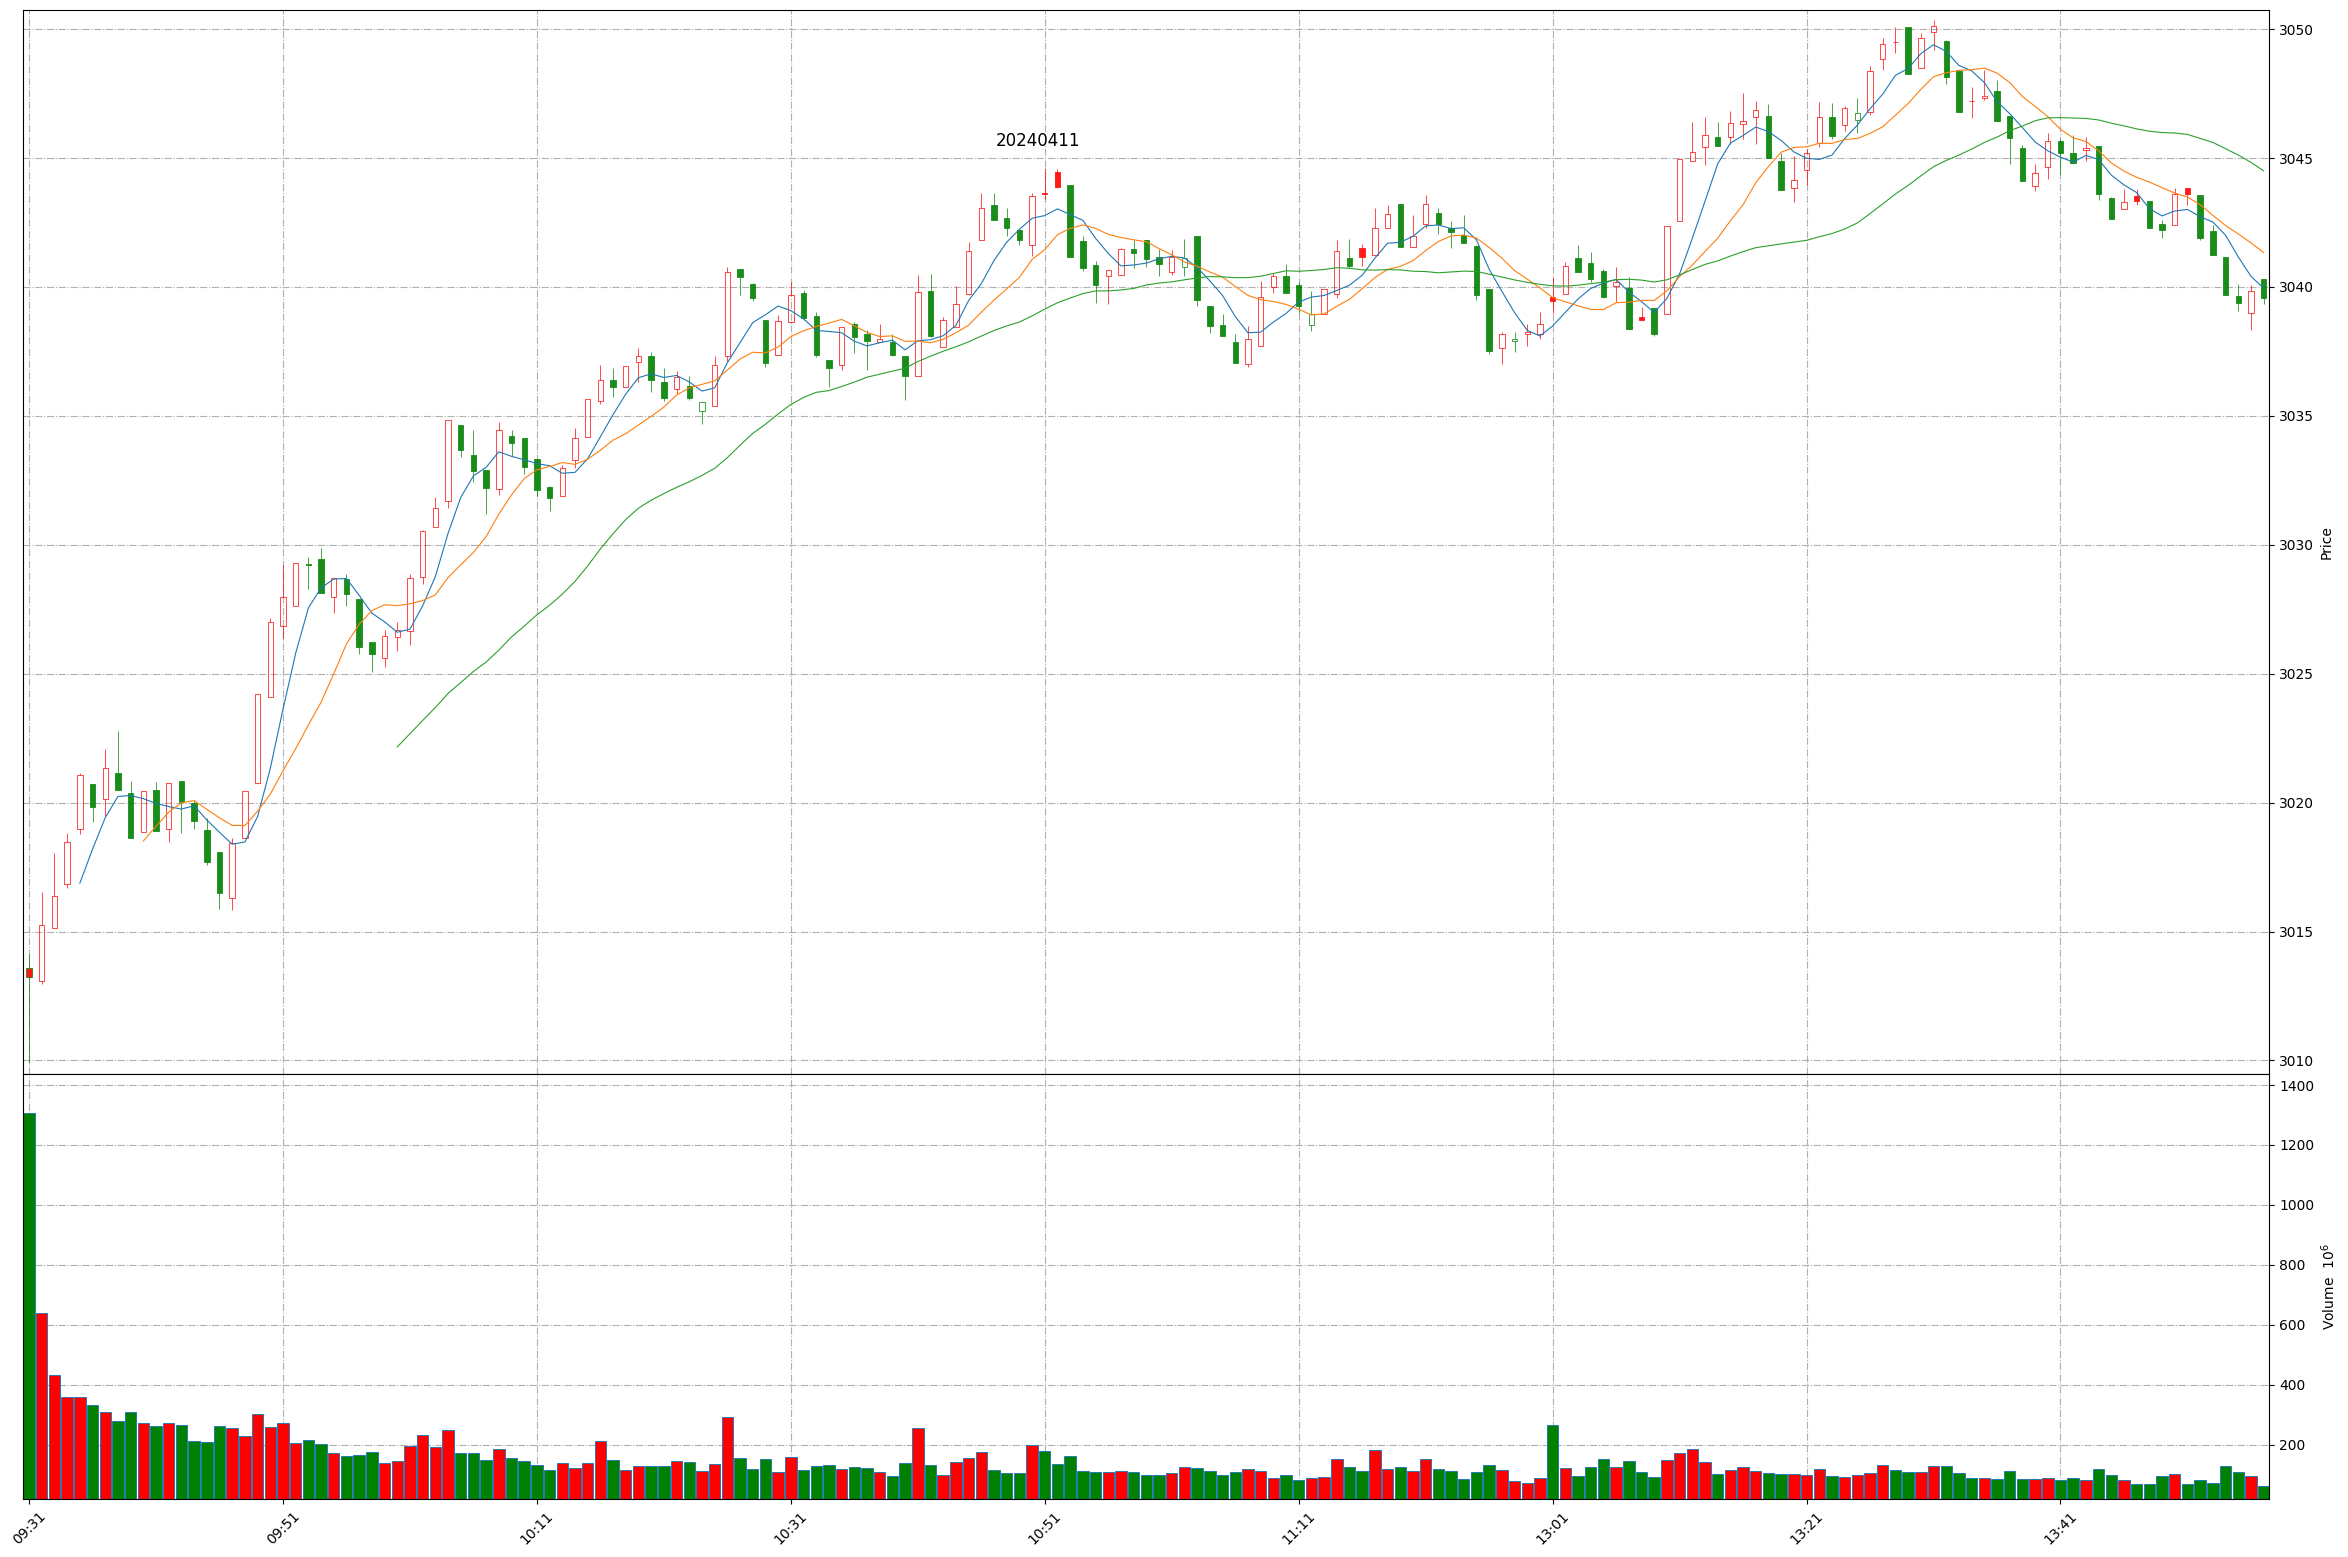
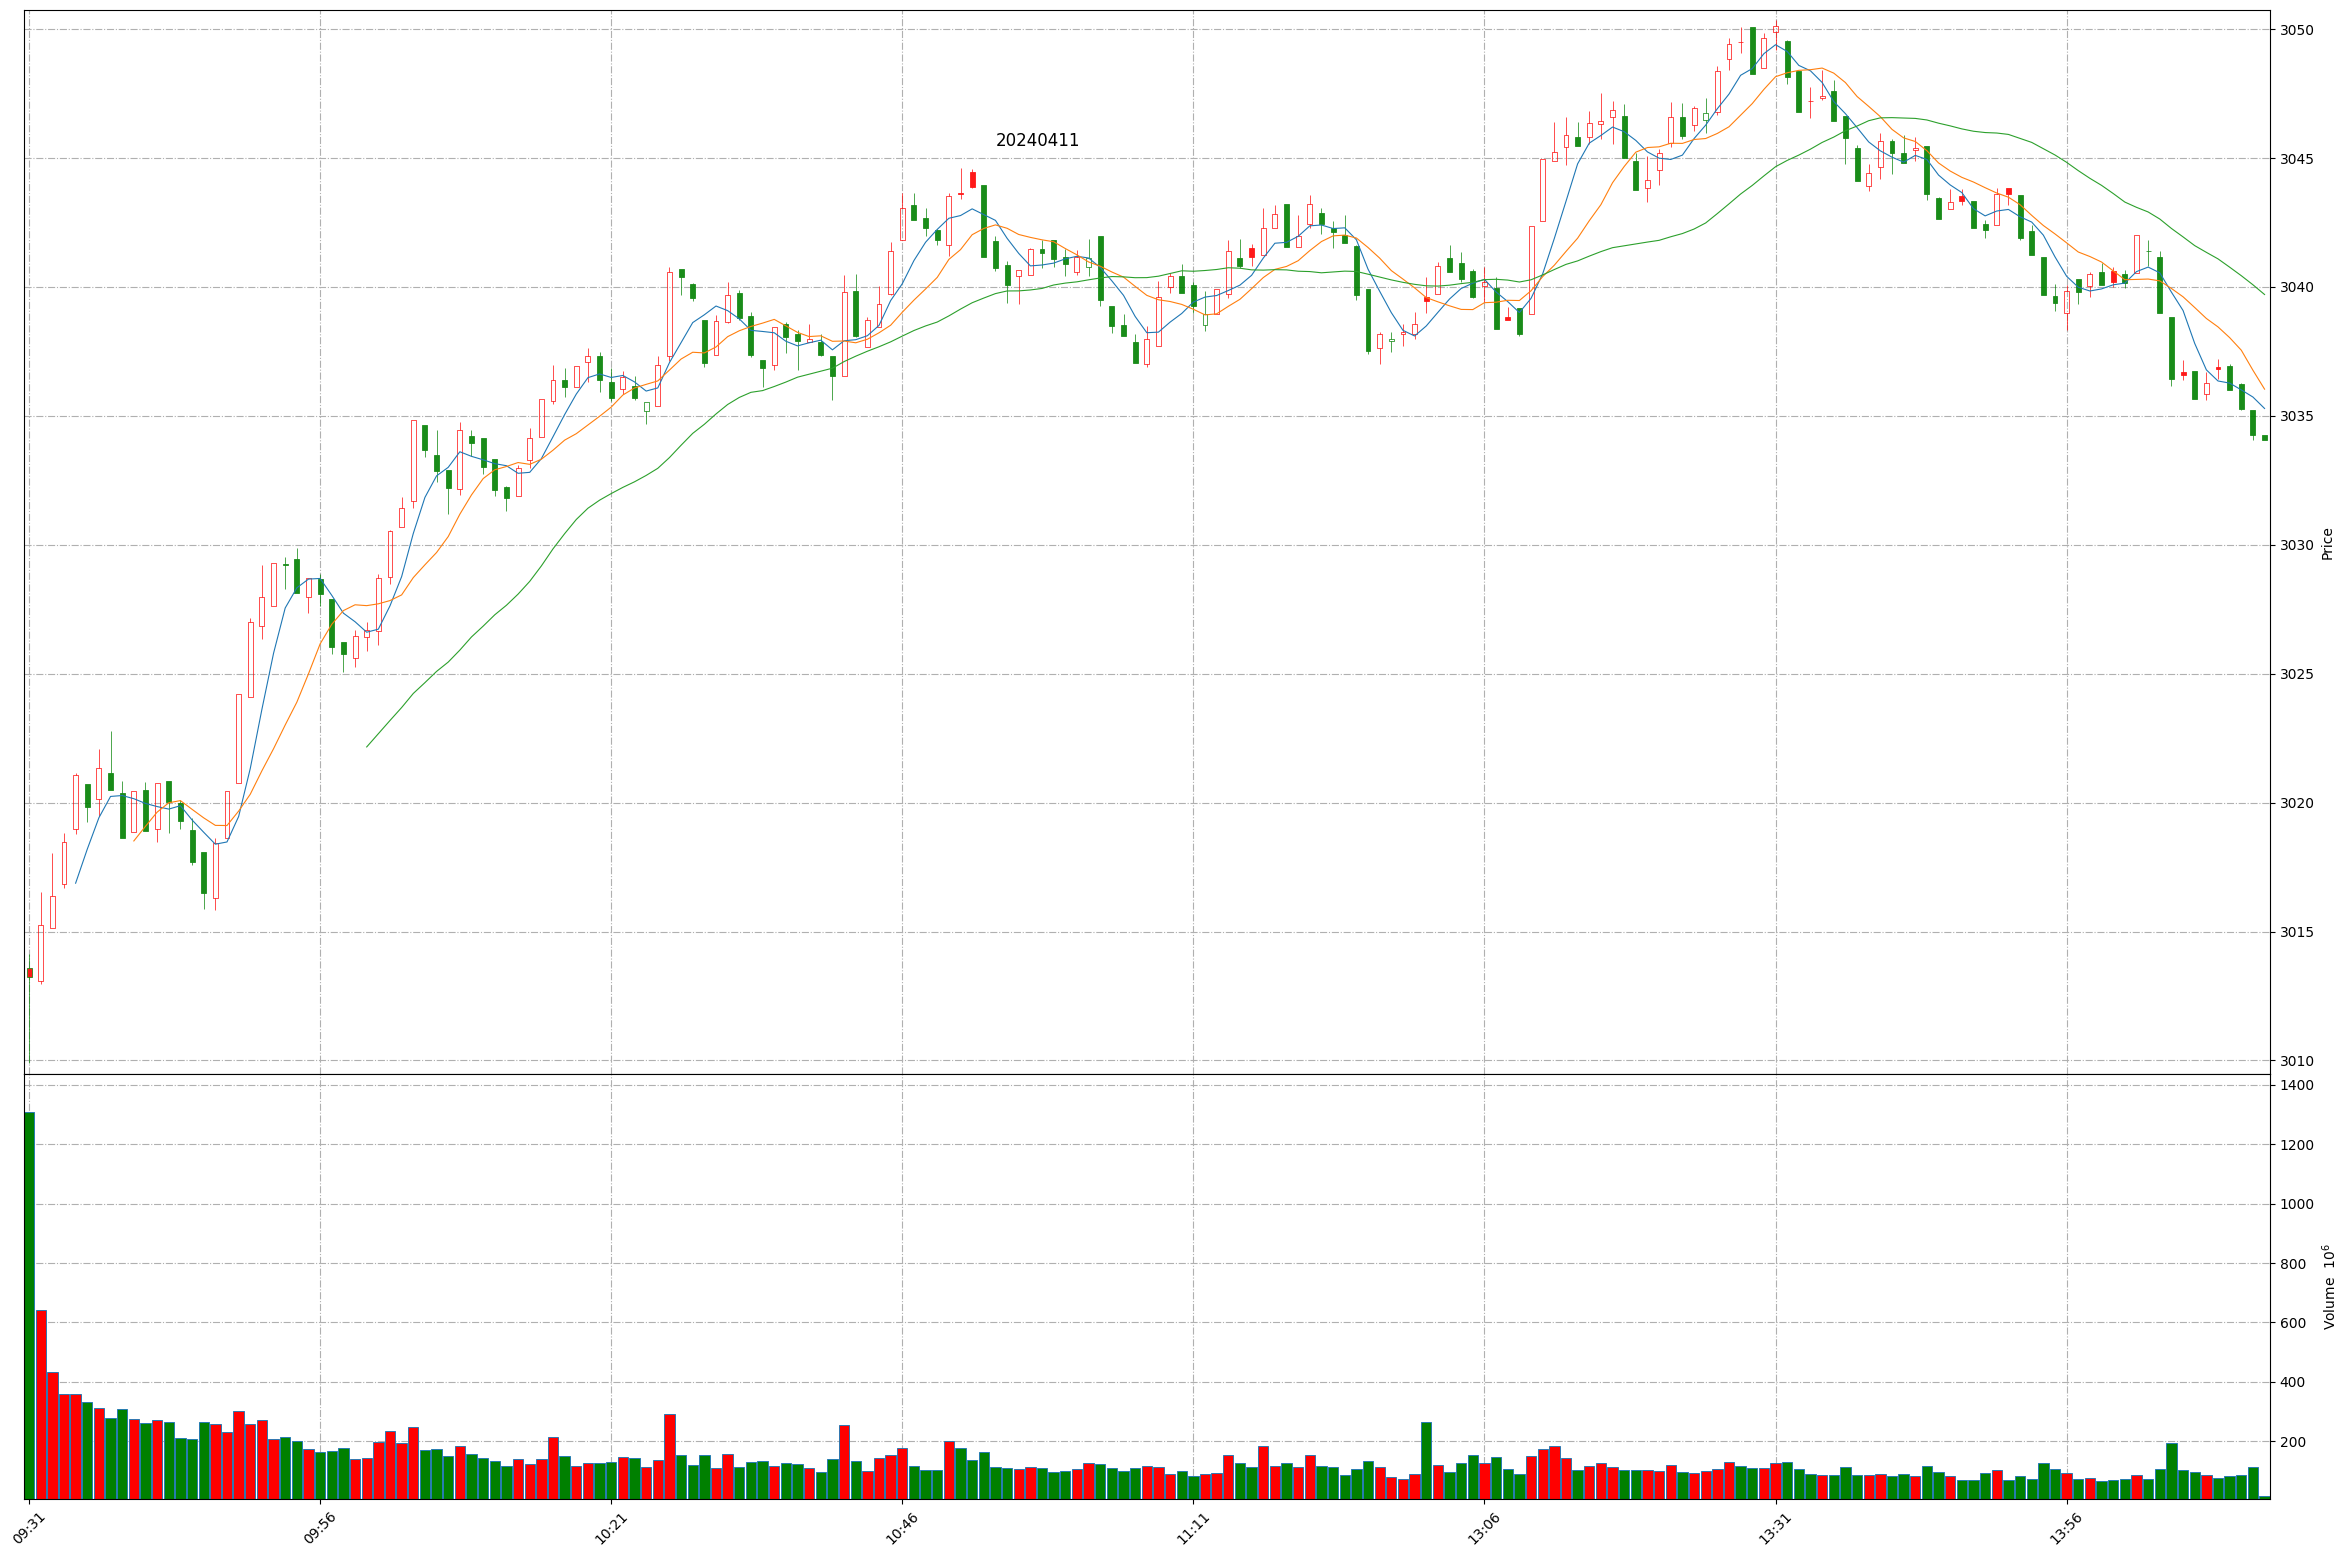
Github action update at 2024-04-11 14:12:39.

diff --git a/README.md b/README.md
@@ -1,11 +1,11 @@
 
 # Daily-A-share-market-quotes 每日 A 股指数（5min 更新）- 20240411
 
-### 上证指数 20240411 13:57
+### 上证指数 20240411 14:12
 ![](./fig/2024/4/20240411-sh000001.png)
 
-### 深证成指 20240411 13:57
+### 深证成指 20240411 14:12
 ![](./fig/2024/4/20240411-sz399001.png)
 
-### 北证50 20240411 13:57
+### 北证50 20240411 14:12
 ![](./fig/2024/4/20240411-bj899050.png)
